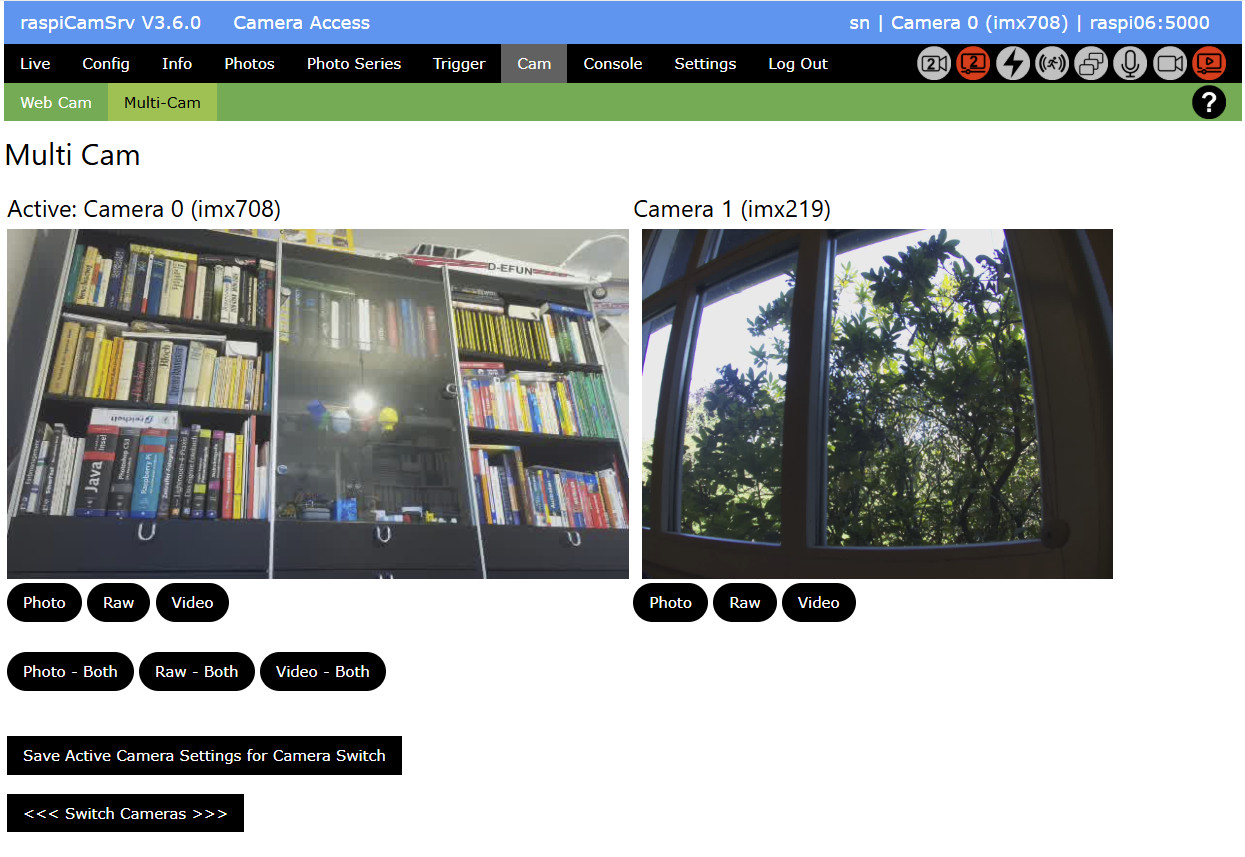
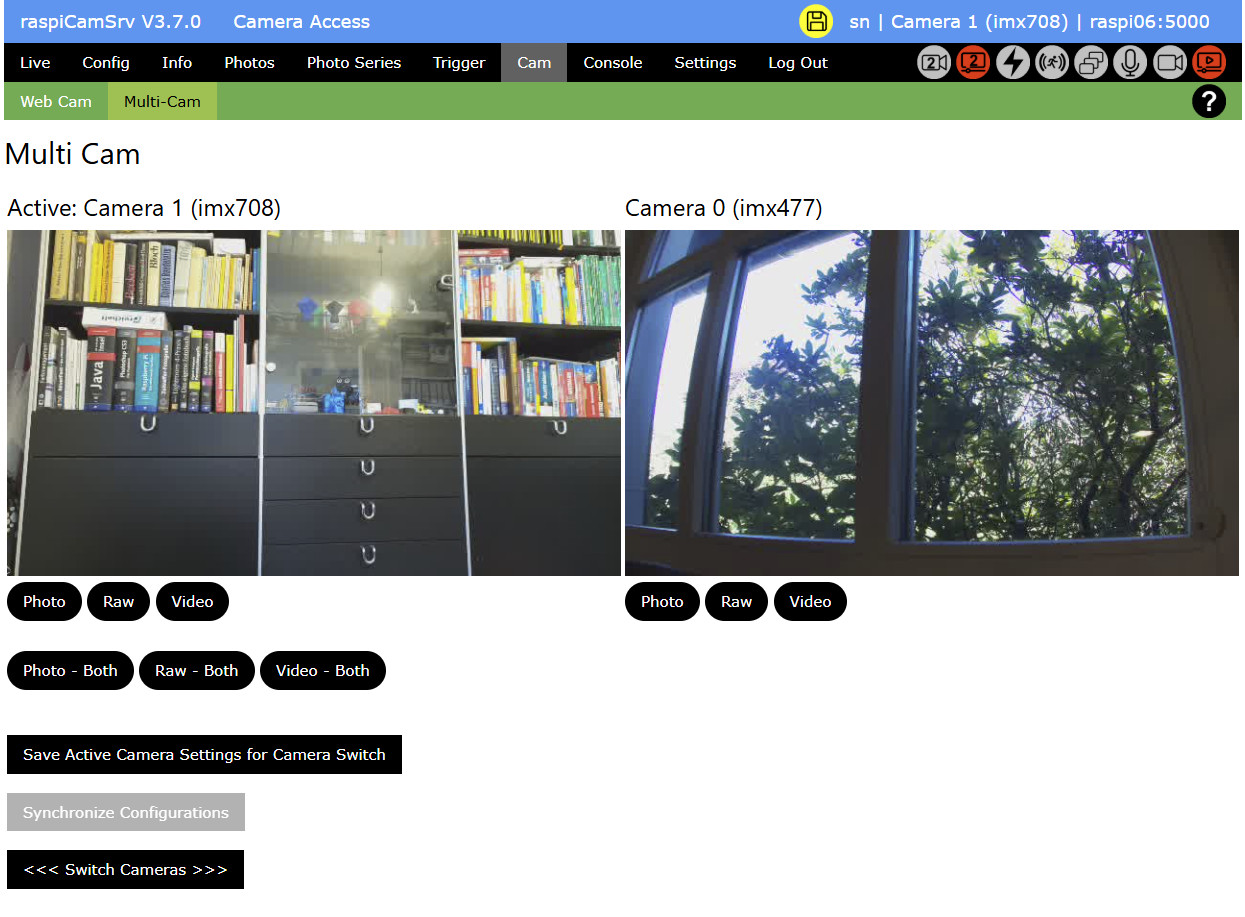
doc

diff --git a/docs/CamMulticam.md b/docs/CamMulticam.md
@@ -39,6 +39,13 @@ This allows identifying photos which have been synchronously taken and videos wh
 
 This button stores the current [Camera Configuration](./Configuration.md) for all configurations as well as the current [Controls](./CameraControls.md) settings for the active camera in a specific structure (streamingCfg) so that it can be reused for streaming in a case that the other camera has been activated. (See also [Configuring MJPEG Stream and jpeg Photo](#configuring-mjpeg-stream-and-jpeg-photo))
 
+#### Synchronize Configurations
+
+This button is disabled if the two cameras are of different model.
+
+If they are the same model, the button can be used to transfer the configuration as well as the controls settings from the active camera to the second camera. This is especially useful in the case of [Stereo Vision](./CamStereo.md) where both cameras should be operated with identical configuration.
+
+**NOTE**: the button does **not** save the settings for the active camera in the *streamingCfg* structure. This must be done explicitly and is recommended to be done before synchronizing.
 
 #### <<< Switch Cameras >>>
 

diff --git a/docs/ReleaseNotes.md b/docs/ReleaseNotes.md
@@ -43,6 +43,7 @@ In case that the server did not start correctly or if you see an unexpected beha
 
 - [Camera Calibration](./CamCalibration.md) uses an image series of a calibration pattern for calibration of a stereo camera pair.
 - [Stereo Vision](./CamStereo.md) uses a stereo camera setup for creation of 3D videos or depth maps.
+- The [Multi-Cam](./CamMulticam.md) dialog has a new function to [Synchronize Configurations](./CamMulticam.md#synchronize-configurations).
 
 ### Bugfixes
 
